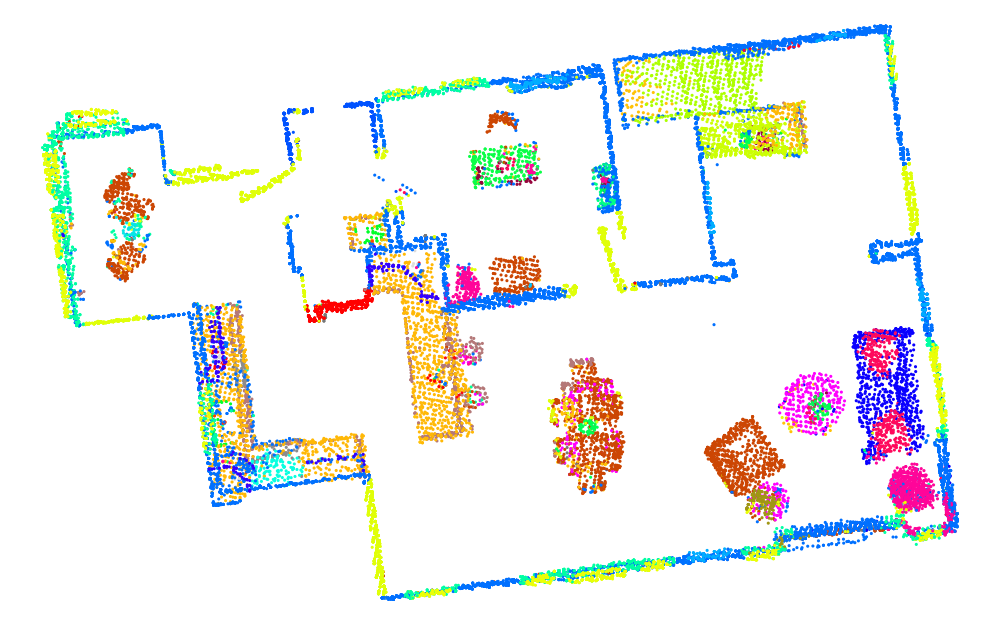
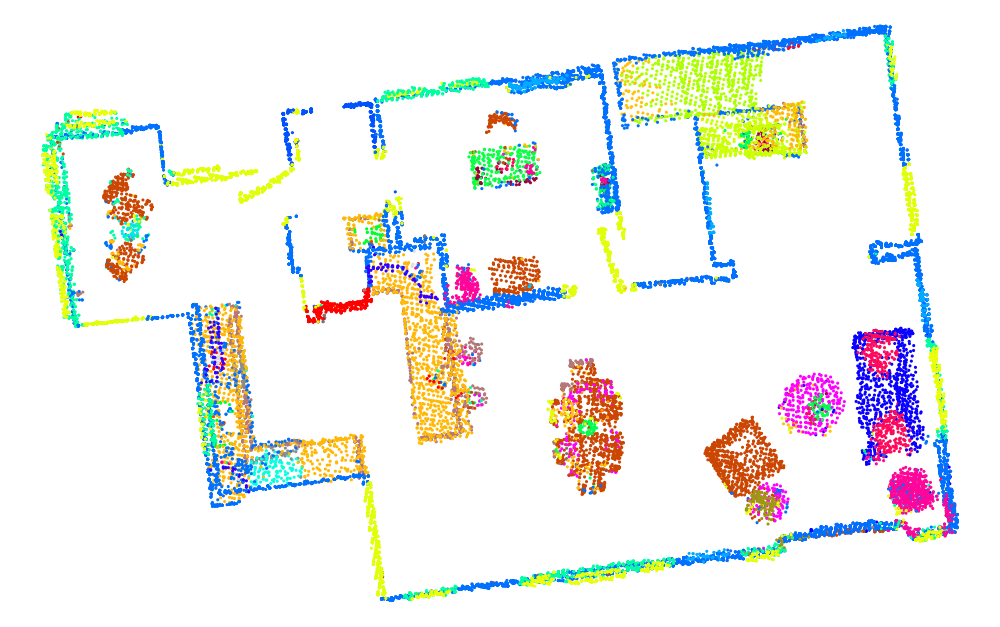
update map

diff --git a/hw3/construct_map.py b/hw3/construct_map.py
@@ -15,7 +15,7 @@ if __name__ == '__main__':
     parser.add_argument('--map_name', type=str, help='name of map image', default='map')
     parser.add_argument('--map_w_size', type=float, default=10.0, help='width size of map image')
     parser.add_argument('--save_dir', type=str, default='map', help='path to store cropped pcd')
-    parser.add_argument('--ceiling_y', type=float, default=0.0, help='y threshold of ceiling')
+    parser.add_argument('--ceiling_y', type=float, default=-0.1, help='y threshold of ceiling')
     parser.add_argument('--floor_y', type=float, default=-1.2, help='y threshold of floor')
     parser.add_argument('--down_size', type=float, default=0.0, help='down sampling voxel size of pcd')
     parser.add_argument('--store_pcd', action='store_true', help='store cropped pcd')
